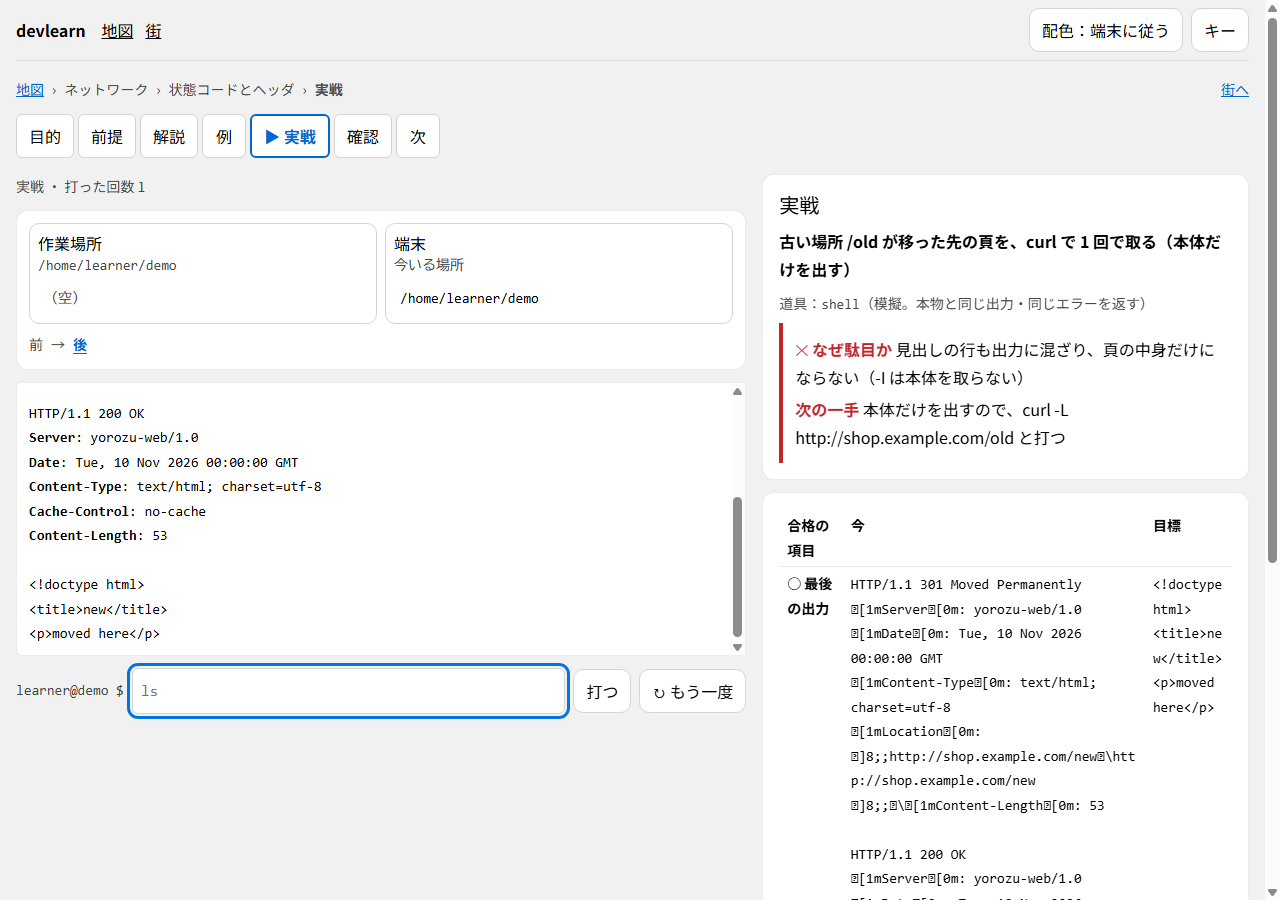
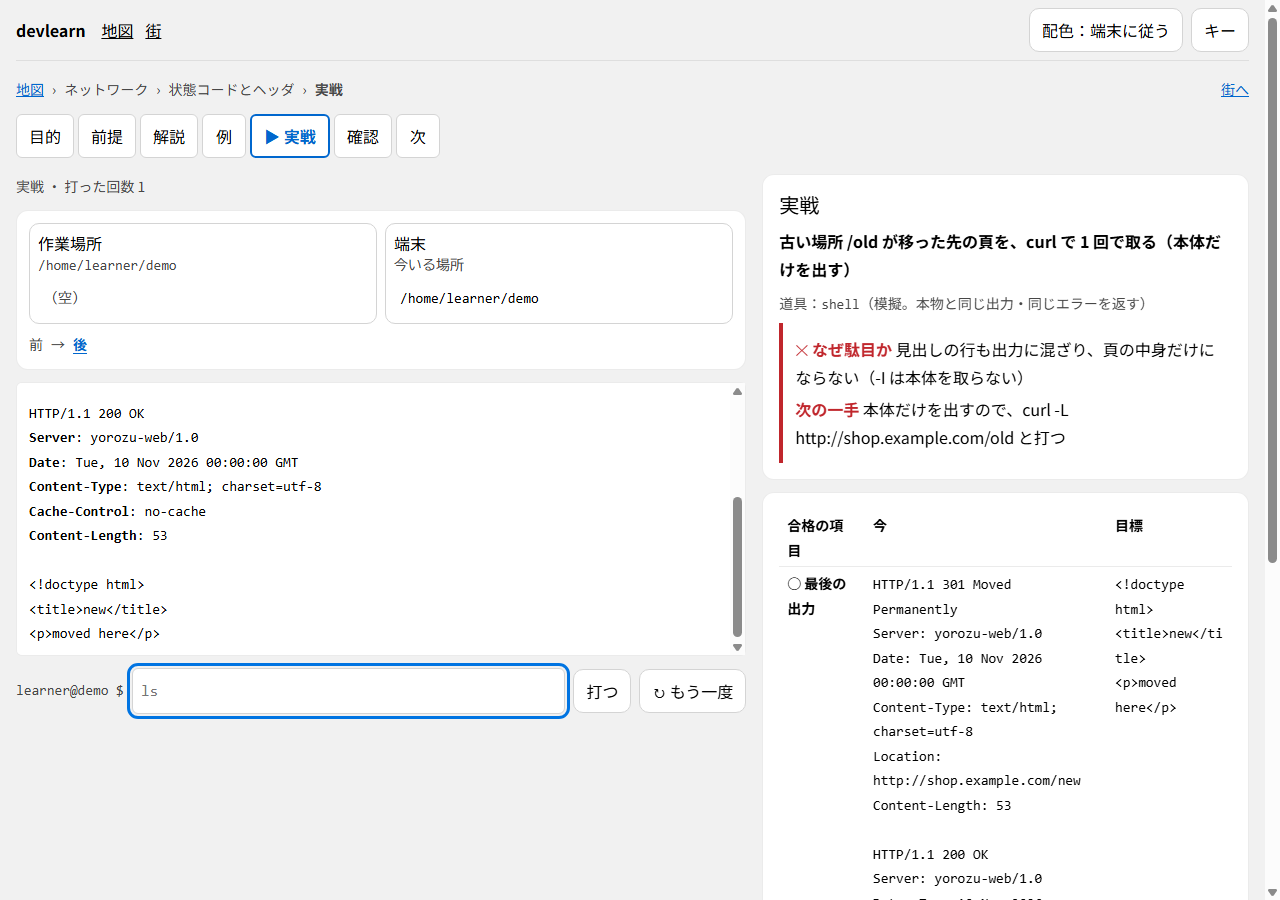
devlearn 段 10-1 net の記録：公開 URL で 4 本を通した（26 / 26）。curl の字の飾りの描き方と判定を直した

diff --git a/devlearn/docs/progress/phase-10.md b/devlearn/docs/progress/phase-10.md
@@ -11,7 +11,7 @@
 |---|---|---|---|---|
 | `prg` | 12 | **12（済）** | 通る | prg-002・prg-008・prg-010（`840d4d3`、19 / 19。`shots/phase-10-prg-*`） |
 | `lnx` | 11 | **11（済）** | 通る | lnx-005・lnx-007・lnx-011（`4453a99`、18 / 18。`shots/phase-10-0-lnx-*`） |
-| `net` | 13 | 2（001・005） | 通る | — |
+| `net` | 13 | **13（済）** | 通る | net-004・net-008・net-009・net-010（`0268787`、26 / 26 と 6 / 6。`shots/phase-10-0-net-*`） |
 | `sec` | 13 | 3（001・009・011） | 通る | — |
 | `db` | 11 | 1（001） | 通る | — |
 | `git` | 10 | 1（001） | 通る | — |
@@ -20,7 +20,7 @@
 | `ci` | 8 | 0 | — | — |
 | `ai` | 37 | 0 | — | — |
 | `sta` | 29 | 0 | — | — |
-| 計 | 163 | 31 | | |
+| 計 | 163 | 42 | | |
 
 `docs/content-sources-log.md`：旧資料から取った問題は、ここまで無し。
 
@@ -118,3 +118,16 @@
 - 公開 URL（`4453a99`）で lnx-005（パイプ）・lnx-007（プロセス）・lnx-011（sudo）を `look-practice.ts` で通した：18 / 18
 - 撮った画面の名前は `phase-10-0-<レッスン>-*.png`（台本の名前の付け方のまま）と、解説の `phase-10-<レッスン>-explain3.png`
 - 例を道具の結果で書き込む `scripts/fill-example.ts` を足した（末尾の空白まで一字も違えないため）
+
+### `net`（済、2026-11-13）
+
+- net-002〜004・006〜013 を書いた（shell 模擬 7 本・order 2 本・calc 2 本）。shell の例は模擬に打って得た物で、`solutions.test.ts` が流し直して一字ずつ比べる。
+  模擬は段 7 で本物（Ubuntu 24.04 の iproute2・iputils・DiG・curl 8.5）の記録と比べてあるので、例は本物の出力と同じ
+- 見つけて直した物
+  - curl は端末に出すとき、見出しを太字にし Location を押せる印（OSC 8）で包む。画面の端末は、この印を字として出さず、太字と下線で描くようにした（`terminal.ts` の `terminalSpans`）。
+    例の行は「画面に見える形」（CR を解き、飾りを外す）で書き、比べる（`screenLines`）
+  - 公開 URL で net-008 を通すと、合格の項目の「今」に飾りの印がそのまま出ていた。シェルの合格の判定は、最後の出力を飾りを外した形で比べて見せるようにした（`shell-practice.test.ts`）
+  - 本物の Ubuntu にある網の命令（nslookup・host・tracepath・wget）に command not found と返していた。模擬だと分かる日本語で返す（D-13）
+- 公開 URL で net-004（shell）・net-008（shell）・net-009（order）・net-010（calc）を `look-practice.ts` で通した：`2c17485` で 26 / 26、直した後の `0268787` で net-008 を 6 / 6
+- 段 10-1 の次の分野（`sec`）のために、直す（fix）の仕組みに html（XSS）・cookie（SameSite と確かめの値）・policy（権限の方針）を足した（`forms.test.ts`）
+
